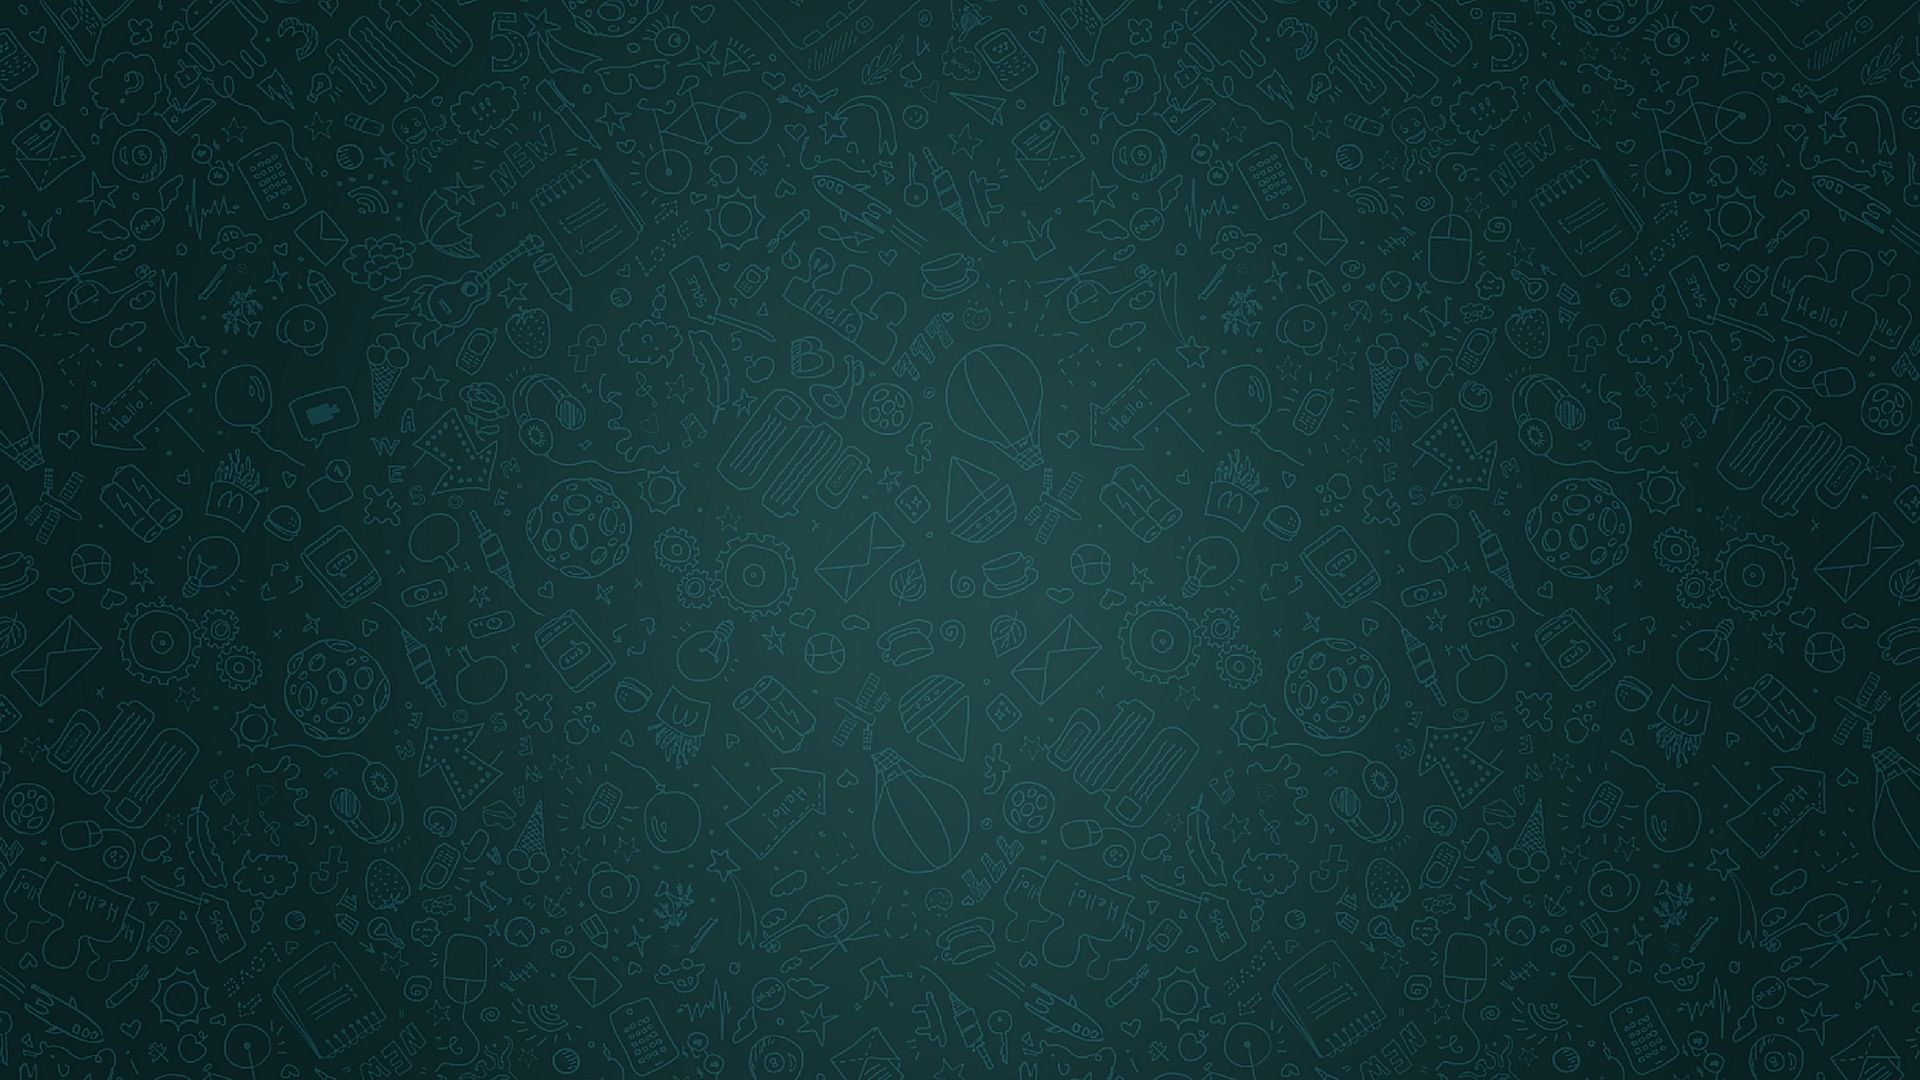
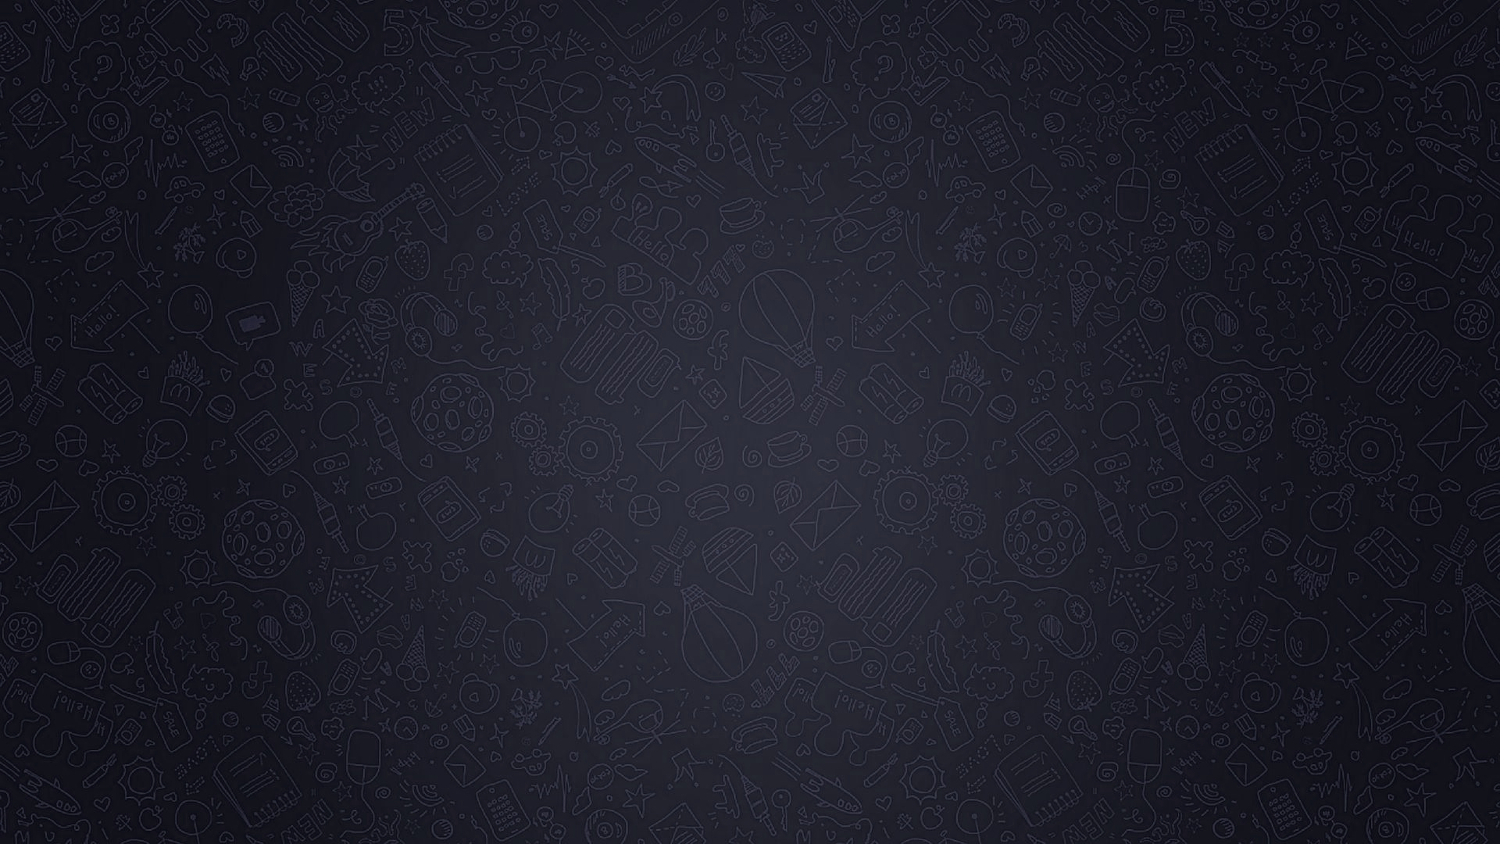
css revamped

diff --git a/kuizonline/menu.css b/kuizonline/menu.css
@@ -29,20 +29,85 @@ a {
     font-size: 12px;
     font-weight: bold;
     text-align: right;
-    color: white;
+    color: rgb(0, 0, 0);
 
     width: 100px;
     padding: 10px;
     margin-bottom: 5px;
-    border-radius: 15px 0 0 15px;
-    background-color: rgb(30, 194, 79);
+    border-radius: 15px;
+    background-color: rgb(255, 102, 0);
 
     display: block;
     text-decoration: none;
 }
 
+
+
+a.home {
+    background-image: url(home.png);
+    background-repeat: no-repeat;
+    background-position: 6px 6px;
+    background-color: rgb(30, 169, 194);
+}
+
+a.guru {
+    background-image: url(guru.png);
+    background-repeat: no-repeat;
+    background-position: 6px 6px;
+    background-color: rgb(0, 187, 31);
+
+}
+
+a.pelajar {
+    background-image: url(pelajar.png);
+    background-repeat: no-repeat;
+    background-position: 6px 6px;
+    background-color: rgb(217, 255, 0);
+
+}
+
+a.kelas {
+    background-image: url(kelas.png);
+    background-repeat: no-repeat;
+    background-position: 6px 6px;
+
+    background-color: rgb(255, 102, 0);
+}
+
+a.soalan {
+    background-image: url(soalan.png);
+    background-repeat: no-repeat;
+    background-position: 6px 6px;
+
+
+    background-color: rgb(240, 128, 128);
+}
+
+a.laporan {
+    background-image: url(laporan.png);
+    background-repeat: no-repeat;
+    background-position: 6px 6px;
+
+    background-color: rgb(255, 0, 157);
+}
+
+a.import {
+    background-image: url(import.png);
+    background-repeat: no-repeat;
+    background-position: 6px 6px;
+
+    background-color: rgb(151, 38, 216);
+}
+
+a.logout {
+    background-image: url(logout.png);
+    background-repeat: no-repeat;
+    background-position: 6px 6px;
+    background-color: red;
+}
+
 a:hover {
-    background-color: lightcoral;
+    background-color: silver;
     background-image: url(right.png);
     background-repeat: no-repeat;
     background-position: 6px 6px;

diff --git a/kuizonline/button.css b/kuizonline/button.css
@@ -3,28 +3,31 @@ button {
 	font-weight: bold;
 	font-size: 11px;
 	text-align: left;
-	color: darkolivegreen;
+	color: rgb(255, 255, 255);
 
-	width: 100px;
+	width: 110px;
 	padding: 7px 8px 7px 32px;
 	border-radius: 7px;
 	margin-top: 10px;
-	background-color: antiquewhite;
-	background-position: 8px;
+	background-color: rgb(46, 46, 56);
+	background-position: 5px;
 	background-repeat: no-repeat;
 
 }
 
 button.login {
 	background-image: url(signin.png);
+	background-color: rgb(30, 194, 79);
 }
 
 button.signup {
 	background-image: url(signup.png);
+	background-color: rgb(30, 169, 194);
 }
 
 button.tambah {
 	background-image: url(add.png);
+	background-color: rgb(30, 194, 79);
 }
 
 button.simpan {

diff --git a/kuizonline/borang.css b/kuizonline/borang.css
@@ -5,12 +5,13 @@ h3 {
     text-align: center;
     color: rgb(255, 255, 255);
 
-    padding: 5px 22px;
-    border: 1px solid rgb(255, 255, 255);
+    padding: 5px 21px;
+    border: 2px solid rgb(255, 255, 255);
+    border-bottom: none;
 
     border-radius: 10px 10px 0 0;
     margin: 20px auto 0px;
-    background-color: rgba(255, 166, 0, 0.925);
+    background-color: rgba(46, 46, 56, 0.925);
     box-sizing: 10px 10px 5px rgba(53, 7, 95, 0.7);
 
 }
@@ -26,7 +27,7 @@ form {
     text-align: center;
     color: rgb(255, 255, 255);
 
-    padding: 20px;
+    padding: 21px;
     border: 2px solid rgb(255, 255, 255);
     border-radius: 0px 0px 10px 10px;
     margin: 0px auto;

diff --git a/kuizonline/header.html b/kuizonline/header.html
@@ -4,7 +4,7 @@
     <link rel="stylesheet" href="header.css">
     <style>
         body {
-            background-color: rgba(22, 63, 60, 0.7);
+            background-color: rgb(49, 46, 56);
         }
 
         h1 {

diff --git a/kuizonline/home.html b/kuizonline/home.html
@@ -7,7 +7,7 @@
             font-size: 12px;
             font-weight: bold;
             text-align: center;
-            color: rgb(255, 123, 0);
+            color: rgb(0, 204, 255);
 
         }
     </style>

diff --git a/kuizonline/menu_utama.php b/kuizonline/menu_utama.php
@@ -14,14 +14,14 @@ echo "
 if($status =="guru") {
     echo('
     <ul>
-    <li><a href="home.html" target="kandungan">Home</a></li>
-    <li><a href="menu_guru.html" target="menu">Guru</a></li>
-    <li><a href="menu_pelajar.html" target="menu">Pelajar</a></li>
-    <li><a href="menu_kelas.html" target="menu">Kelas</a></li>
-    <li><a href="menu_soalan.html" target="menu">Soalan</a></li>
-    <li><a href="laporan_pilihan.php" target="kandungan">Laporan</a></li>
-    <li><a href="import.html" target="kandungan">Import</a></li>
-    <li><a href="logout.php" target="_top">Keluar</a></li>
+    <li><a class=home href="home.html" target="kandungan">Home</a></li>
+    <li><a class=guru href="menu_guru.html" target="menu">Guru</a></li>
+    <li><a class=pelajar href="menu_pelajar.html" target="menu">Pelajar</a></li>
+    <li><a class=kelas href="menu_kelas.html" target="menu">Kelas</a></li>
+    <li><a class=soalan href="menu_soalan.html" target="menu">Soalan</a></li>
+    <li><a class=laporan href="laporan_pilihan.php" target="kandungan">Laporan</a></li>
+    <li><a class=import href="import.html" target="kandungan">Import</a></li>
+    <li><a class=logout href="logout.php" target="_top">Keluar</a></li>
     </ul>
     </div> 
 ');
@@ -29,9 +29,9 @@ if($status =="guru") {
 } else {
 echo (' 
     <ul>
-    <li><a href="home.html" target="kandungan">Home</a></li>
-    <li><a href="jawab_mula.php" target="kandungan">Soalan</a></li>
-    <li><a href="logout.php" target="_top">Keluar</a></li>  
+    <li><a class=home href="home.html" target="kandungan">Home</a></li>
+    <li><a class=soalan href="jawab_mula.php" target="kandungan">Soalan</a></li>
+    <li><a class=logout href="logout.php" target="_top">Keluar</a></li>  
     </ul>
     </div>
 ');

diff --git a/kuizonline/login.php b/kuizonline/login.php
@@ -53,7 +53,7 @@ if (isset($_POST['userid'])) {
         <img src="tajuk1.png"><br><img src="tajuk2.png">
     </center>
 
-    <h3 class="pendek">SIGN IN</h3>
+    <h3 class="pendek"><img src="signintext.png" alt="Sign In"></h3>
     <form action="login.php" class="pendek" method="post" class="login">
         <table>
             <tr>
@@ -65,8 +65,9 @@ if (isset($_POST['userid'])) {
                 <td><input type="password" name="password" placeholder="password"></td>
             </tr>
         </table>
-        <button class="login" type="submit">Login</button>
+        <button class="login" type="submit"><img src="logintext.png" alt="login"></button>
         <!-- MAYBE WRONG -->
-        <button class="signup" type="button" onclick="window.location='signup.php'">Sign Up</button>
+        <button class="signup" type="button" onclick="window.location='signup.php'"><img src="signuptext.png"
+                alt="signup"></button>
     </form>
 </body>
